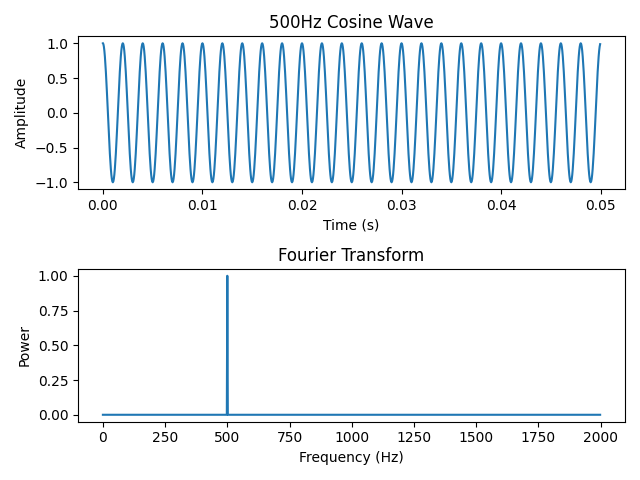
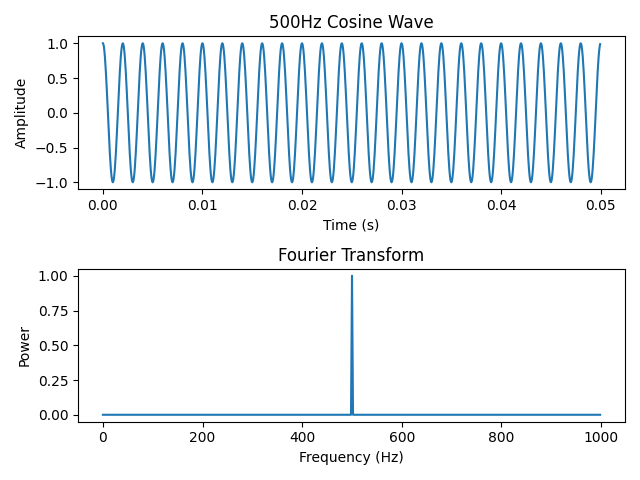
update

diff --git a/fourier.py b/fourier.py
@@ -28,7 +28,7 @@ class Fourier:
         ax[0].set_ylabel('Amplitude')
         ax[0].set_title(self.title)
 
-        ax[1].plot(xf[:self.N//10],2./N * np.abs(yf[:N//10]))
+        ax[1].plot(xf[:self.N//20],2./N * np.abs(yf[:N//20]))
         ax[1].set_xlabel('Frequency (Hz)')
         ax[1].set_ylabel('Power')
         ax[1].set_title('Fourier Transform')
@@ -43,13 +43,17 @@ def sine(x):
 def cosine(x):
     return np.cos(500.*2.*np.pi*x)
 
+def rand(x):
+    return np.sin(250.*2.*np.pi*x) + 0.3*np.sin(100.*2.*np.pi*x) + 0.25*np.sin(400.*2.*np.pi*x)
+
 
 x = np.linspace(0.,N*T,N,endpoint=False)
 
 sine_test = Fourier(x,sine(x),N,T,'100 Hz Sine Wave')
 cosine_test = Fourier(x,cosine(x),N,T,'500Hz Cosine Wave')
+rand_func = Fourier(x,rand(x),N,T,'Random Waveform')
 
-funcs = [sine_test,cosine_test]
+funcs = [sine_test,cosine_test,rand_func]
 
 for f in funcs:
     f.plot()
